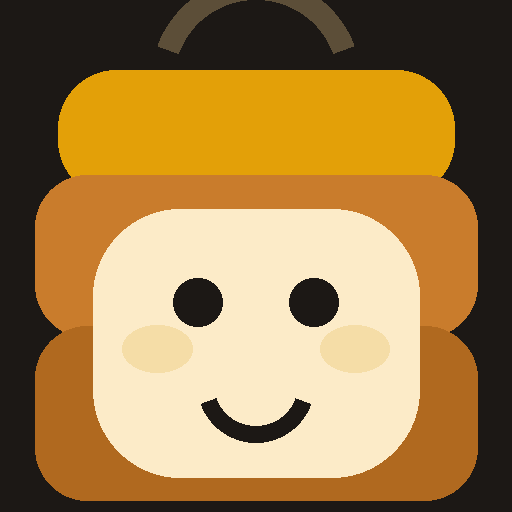
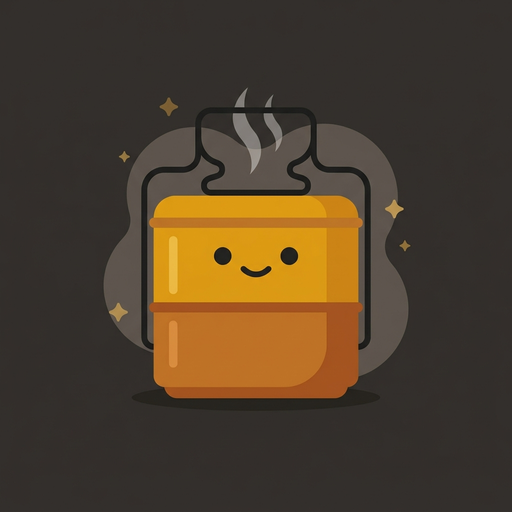
Add files via upload

diff --git a/index.html b/index.html
@@ -1821,12 +1821,21 @@ function suggestEatNowOffline(excludeName) {
 
 // Matches selected pantry ingredients against the recipe library's ingredient lists,
 // scoring by overlap, so "suggest from what I have" always returns something useful
-// even without a live AI call.
+// even without a live AI call. Shuffled before scoring so tied recipes don't always
+// return the same two array-order winners, and includes a small exception so "butter"
+// and "peanut butter" — genuinely different pantry items — don't cross-match just
+// because one is a substring of the other.
 function suggestFromPantryOffline(selectedItems) {
   const selectedLower = selectedItems.map((s) => s.toLowerCase());
-  const scored = RECIPES.map((r) => {
+  const ingredientMatches = (sel, ing) => {
+    if (ing === sel) return true;
+    if (sel === "butter" && ing.includes("peanut butter")) return false;
+    if (sel === "peanut butter" && ing === "butter") return false;
+    return ing.includes(sel) || sel.includes(ing);
+  };
+  const scored = shuffle(RECIPES).map((r) => {
     const ingLower = (r.ingredients || []).map((i) => i.toLowerCase());
-    const score = selectedLower.filter((sel) => ingLower.some((ing) => ing.includes(sel) || sel.includes(ing))).length;
+    const score = selectedLower.filter((sel) => ingLower.some((ing) => ingredientMatches(sel, ing))).length;
     return { recipe: r, score };
   });
   scored.sort((a, b) => b.score - a.score);
@@ -2466,34 +2475,42 @@ function Ring({ pct, size = 84, stroke = 9, color, label, value, target, unit })
 
 // Little sprout-in-pot illustration for the Progress page — growth metaphor for the weight-gain trend.
 function GrowthIllustration({ size = 76 }) {
-  return (
-    <svg viewBox="0 0 80 80" width={size} height={size}>
-      <ellipse cx="40" cy="66" rx="22" ry="5" fill={PALETTE.success} opacity="0.15" />
-      <path d="M24 52 L56 52 L51 68 L29 68 Z" fill={PALETTE.accent2} />
-      <rect x="24" y="48" width="32" height="6" rx="2" fill={PALETTE.amberDark} />
-      <path d="M40 50 C40 36 40 30 40 22" stroke={PALETTE.success} strokeWidth="3.4" fill="none" strokeLinecap="round" />
-      <path d="M40 34 C32 30 28 22 30 16 C38 18 42 26 40 34 Z" fill={PALETTE.success} />
-      <path d="M40 40 C48 37 52 30 51 24 C43 25 38 32 40 40 Z" fill="#5E9270" />
-      <circle cx="52" cy="18" r="2" fill={PALETTE.accent} />
-      <circle cx="58" cy="26" r="1.6" fill={PALETTE.accent} />
-    </svg>
-  );
+  const [failed, setFailed] = useState(false);
+  if (failed) {
+    return (
+      <svg viewBox="0 0 80 80" width={size} height={size}>
+        <ellipse cx="40" cy="66" rx="22" ry="5" fill={PALETTE.success} opacity="0.15" />
+        <path d="M24 52 L56 52 L51 68 L29 68 Z" fill={PALETTE.accent2} />
+        <rect x="24" y="48" width="32" height="6" rx="2" fill={PALETTE.amberDark} />
+        <path d="M40 50 C40 36 40 30 40 22" stroke={PALETTE.success} strokeWidth="3.4" fill="none" strokeLinecap="round" />
+        <path d="M40 34 C32 30 28 22 30 16 C38 18 42 26 40 34 Z" fill={PALETTE.success} />
+        <path d="M40 40 C48 37 52 30 51 24 C43 25 38 32 40 40 Z" fill="#5E9270" />
+        <circle cx="52" cy="18" r="2" fill={PALETTE.accent} />
+        <circle cx="58" cy="26" r="1.6" fill={PALETTE.accent} />
+      </svg>
+    );
+  }
+  return <img src="banner-progress.png" alt="" width={size} height={size} onError={() => setFailed(true)} style={{ display: "block", objectFit: "contain" }} />;
 }
 
 // Woven basket with food peeking out, for the Shop page.
 function BasketIllustration({ size = 76 }) {
-  return (
-    <svg viewBox="0 0 80 80" width={size} height={size}>
-      <path d="M20 40 Q40 24 60 40" stroke={PALETTE.textMutedBrown} strokeWidth="4" fill="none" strokeLinecap="round" />
-      <path d="M16 42 L64 42 L58 68 Q40 74 22 68 Z" fill={PALETTE.accent2} />
-      <path d="M16 42 L64 42 L62 48 L18 48 Z" fill={PALETTE.amberDark} />
-      <path d="M22 55 L58 55" stroke={PALETTE.amberDark} strokeWidth="1.6" />
-      <path d="M22 61 L58 61" stroke={PALETTE.amberDark} strokeWidth="1.6" />
-      <path d="M30 40 Q34 24 30 14" stroke={PALETTE.accent} strokeWidth="5" fill="none" strokeLinecap="round" />
-      <ellipse cx="42" cy="34" rx="9" ry="8" fill={PALETTE.cream} />
-      <path d="M50 40 Q56 28 52 18" stroke={PALETTE.success} strokeWidth="4" fill="none" strokeLinecap="round" />
-    </svg>
-  );
+  const [failed, setFailed] = useState(false);
+  if (failed) {
+    return (
+      <svg viewBox="0 0 80 80" width={size} height={size}>
+        <path d="M20 40 Q40 24 60 40" stroke={PALETTE.textMutedBrown} strokeWidth="4" fill="none" strokeLinecap="round" />
+        <path d="M16 42 L64 42 L58 68 Q40 74 22 68 Z" fill={PALETTE.accent2} />
+        <path d="M16 42 L64 42 L62 48 L18 48 Z" fill={PALETTE.amberDark} />
+        <path d="M22 55 L58 55" stroke={PALETTE.amberDark} strokeWidth="1.6" />
+        <path d="M22 61 L58 61" stroke={PALETTE.amberDark} strokeWidth="1.6" />
+        <path d="M30 40 Q34 24 30 14" stroke={PALETTE.accent} strokeWidth="5" fill="none" strokeLinecap="round" />
+        <ellipse cx="42" cy="34" rx="9" ry="8" fill={PALETTE.cream} />
+        <path d="M50 40 Q56 28 52 18" stroke={PALETTE.success} strokeWidth="4" fill="none" strokeLinecap="round" />
+      </svg>
+    );
+  }
+  return <img src="banner-basket.png" alt="" width={size} height={size} onError={() => setFailed(true)} style={{ display: "block", objectFit: "contain" }} />;
 }
 
 // A magnifying glass over a dashed, empty plate — used when filters/search return nothing.
@@ -2534,17 +2551,21 @@ function EmptyState({ illustration, title, subtitle }) {
 
 // Chef hat with a friendly face, for the Recipes page.
 function ChefIllustration({ size = 76 }) {
-  return (
-    <svg viewBox="0 0 80 80" width={size} height={size}>
-      <path d="M24 44 Q18 30 28 22 Q30 12 40 12 Q50 12 52 22 Q62 30 56 44 Z" fill={PALETTE.cream} />
-      <rect x="24" y="42" width="32" height="10" rx="4" fill={PALETTE.cream} />
-      <circle cx="34" cy="40" r="2.4" fill={PALETTE.bg} />
-      <circle cx="46" cy="40" r="2.4" fill={PALETTE.bg} />
-      <path d="M34 47 Q40 51 46 47" stroke={PALETTE.bg} strokeWidth="2.2" fill="none" strokeLinecap="round" />
-      <ellipse cx="30" cy="43" rx="2.8" ry="1.8" fill={PALETTE.accent} opacity="0.3" />
-      <ellipse cx="50" cy="43" rx="2.8" ry="1.8" fill={PALETTE.accent} opacity="0.3" />
-    </svg>
-  );
+  const [failed, setFailed] = useState(false);
+  if (failed) {
+    return (
+      <svg viewBox="0 0 80 80" width={size} height={size}>
+        <path d="M24 44 Q18 30 28 22 Q30 12 40 12 Q50 12 52 22 Q62 30 56 44 Z" fill={PALETTE.cream} />
+        <rect x="24" y="42" width="32" height="10" rx="4" fill={PALETTE.cream} />
+        <circle cx="34" cy="40" r="2.4" fill={PALETTE.bg} />
+        <circle cx="46" cy="40" r="2.4" fill={PALETTE.bg} />
+        <path d="M34 47 Q40 51 46 47" stroke={PALETTE.bg} strokeWidth="2.2" fill="none" strokeLinecap="round" />
+        <ellipse cx="30" cy="43" rx="2.8" ry="1.8" fill={PALETTE.accent} opacity="0.3" />
+        <ellipse cx="50" cy="43" rx="2.8" ry="1.8" fill={PALETTE.accent} opacity="0.3" />
+      </svg>
+    );
+  }
+  return <img src="banner-chef.png" alt="" width={size} height={size} onError={() => setFailed(true)} style={{ display: "block", objectFit: "contain" }} />;
 }
 
 function PageBanner({ illustration, title, subtitle }) {

diff --git a/service-worker.js b/service-worker.js
@@ -1,4 +1,4 @@
-const CACHE_NAME = "dabba-cache-v3";
+const CACHE_NAME = "dabba-cache-v4";
 const APP_SHELL = [
   "./manifest.json",
   "./icon-192.png",
@@ -11,6 +11,9 @@ const APP_SHELL = [
   "./splash-iphone14-15pro.png",
   "./splash-iphone13-14promax-alt.png",
   "./splash-iphone14-15promax.png",
+  "./banner-progress.png",
+  "./banner-chef.png",
+  "./banner-basket.png",
 ];
 
 self.addEventListener("install", (event) => {